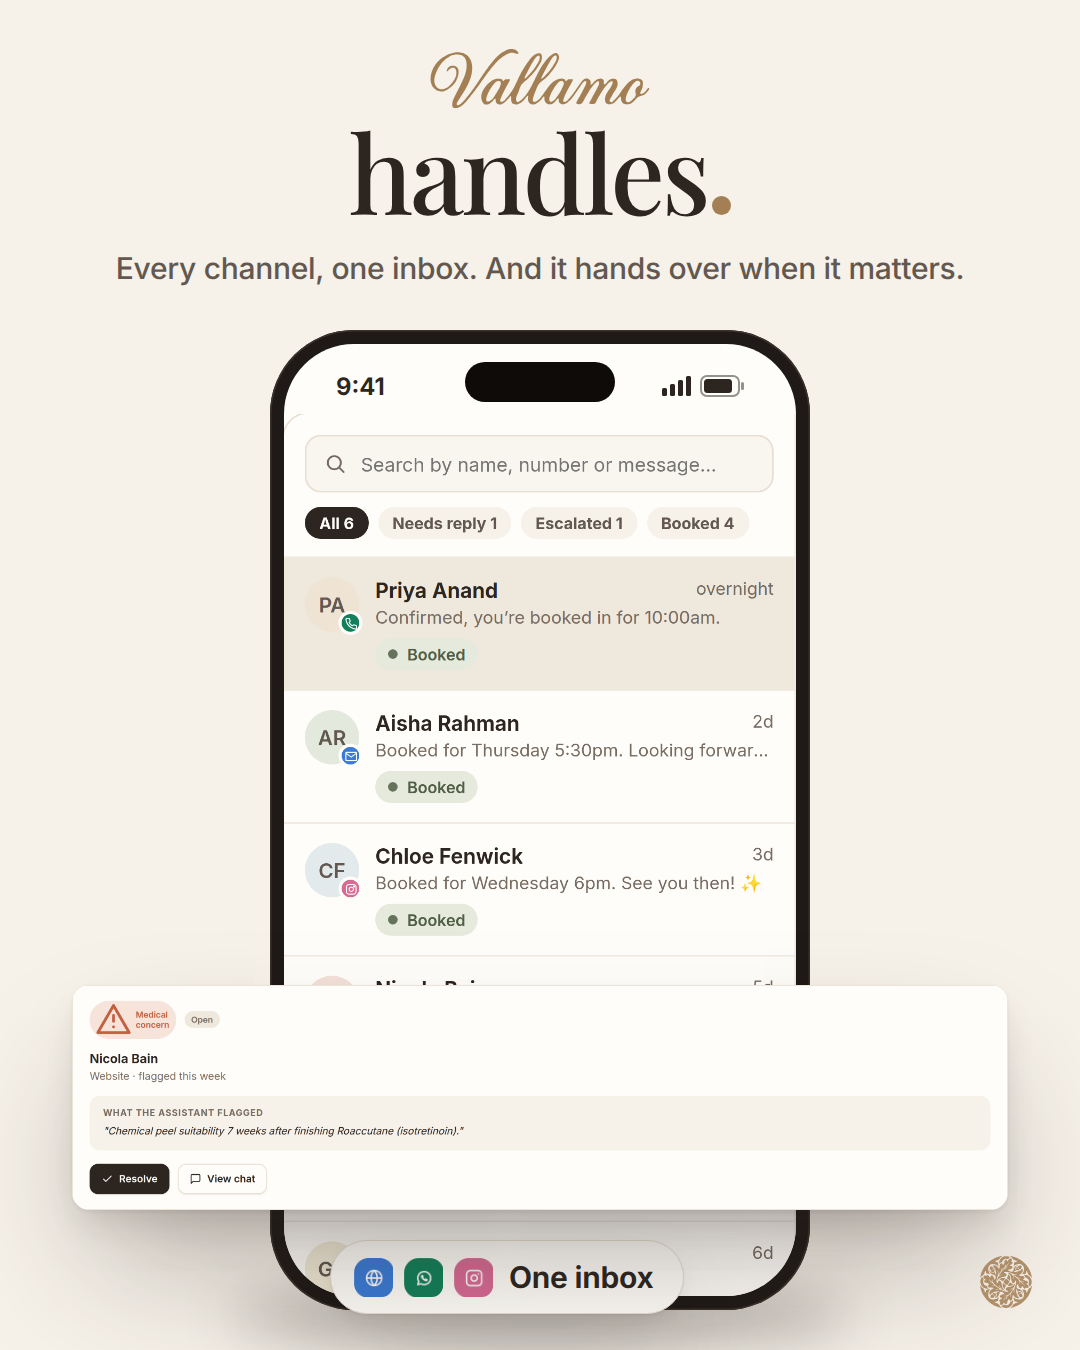
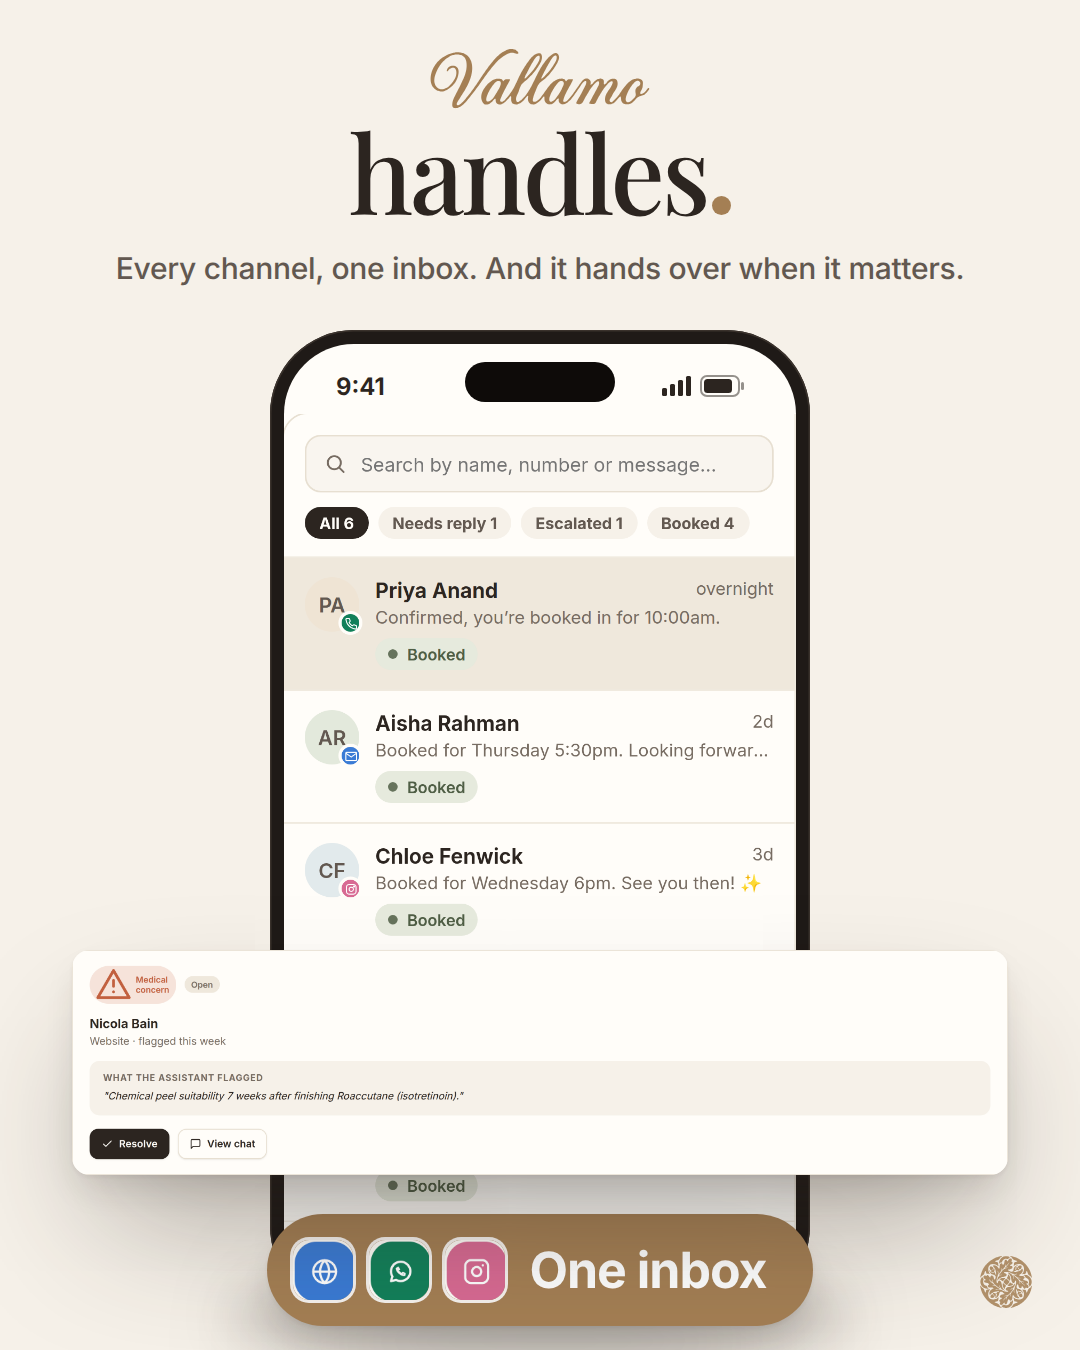
Instagram pin 3: One inbox as a big clay pill
Claude-Session: https://claude.ai/code/session_015ws7exuDDXNV8qCuFUsUFK

Changed region(s): [[0.0611, 0.7156, 0.9472, 0.9956], [0.2444, 0.6844, 0.3361, 0.7467], [0.7333, 0.6844, 0.7639, 0.7467]]

diff --git a/vallamo-film/videos/src/films/insta/Pins.tsx b/vallamo-film/videos/src/films/insta/Pins.tsx
@@ -168,11 +168,16 @@ const PINS = {
           <StatusBar />
           <Img src={staticFile("ui/demo/inbox.png")} style={{ position: "absolute", left: 0, top: 70, width: SCREEN.w, height: (SCREEN.w / D.inbox.w) * D.inbox.h }} />
         </Phone>
-        <Chip x={330} y={1240} style={{ gap: 10 }}>
-          {(["m-ch-web", "m-ch-wa", "m-ch-ig"] as PieceName[]).map((c) => <ChannelIcon key={c} card={c} size={40} />)}
-          <span style={{ marginLeft: 6 }}>One inbox</span>
-        </Chip>
-        <Demo name="handover" {...D.handover} k={0.84} x={72} y={985} style={{ borderRadius: 18, boxShadow: SHADOW.lift }} shadow={false} />
+        {/* One inbox: a selling point, so it gets the big clay pill. */}
+        <div style={{ position: "absolute", left: 0, right: 0, top: 1214, display: "flex", justifyContent: "center" }}>
+          <div style={{ display: "flex", alignItems: "center", gap: 16, height: 112, padding: "0 46px 0 26px", borderRadius: 999, background: C.clay, boxShadow: SHADOW.lift, fontFamily: FONT.sans, fontWeight: 700, fontSize: 50, letterSpacing: "-0.02em", color: "#FFFFFF", whiteSpace: "nowrap" }}>
+            {(["m-ch-web", "m-ch-wa", "m-ch-ig"] as PieceName[]).map((c) => (
+              <div key={c} style={{ borderRadius: 16, boxShadow: "0 0 0 3px rgba(255,255,255,.9)" }}><ChannelIcon card={c} size={60} /></div>
+            ))}
+            <span style={{ marginLeft: 8 }}>One inbox</span>
+          </div>
+        </div>
+        <Demo name="handover" {...D.handover} k={0.84} x={72} y={950} style={{ borderRadius: 18, boxShadow: SHADOW.lift }} shadow={false} />
       </>
     ),
   },
